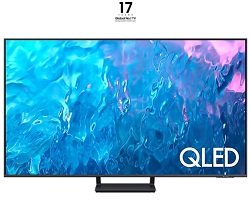
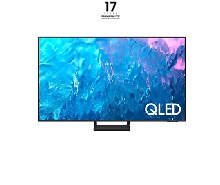
changed to col-md-3 for categories pages,fixed media images

diff --git a/WebShop/wwwroot/css/site.css b/WebShop/wwwroot/css/site.css
@@ -432,7 +432,14 @@ li button {
 
     .campaign {    
       visibility: hidden;  
-    } 
+    }
+
+    .card h5 {
+        font-size: 15px;
+    }
+    .card_img {
+        max-width: 200px !important;
+    }
 
     /*.prev {
         left: 0px;
@@ -457,87 +464,119 @@ li button {
 
     .campaign {
         visibility:hidden;
-    }   
+    }
+    .card h5 {
+        font-size: 15px;
+    }
+    .card_img {
+        max-width: 200px !important;
+    }
 }
 
-@media only screen and (min-width: 1000px) {
-    .header_slogan {
-        margin-left: -60px;
+@media only screen and (min-width: 995px) {
+    .card h5{
+        font-size:15px;
     }
-
-    .mycats {
-        margin-bottom: 30px;
-    }
-    #products {
-        min-height: 1600px;
-    }
-    .campaign {
-        visibility: visible;
-        font-size: 14px;
-    } 
 }
 
-@media only screen and (min-width: 1100px) {
-    .header_slogan {
-        margin-left: -65px;
+    @media only screen and (min-width: 1000px) {
+        .header_slogan {
+            margin-left: -60px;
+        }
+
+        .mycats {
+            margin-bottom: 30px;
+        }
+
+        #products {
+            min-height: 1600px;
+        }
+
+        .campaign {
+            visibility: visible;
+            font-size: 14px;
+        }
+        .card h5 {
+            font-size: 18px;
+        }
+        .card_img {
+            max-width: 200px !important;
+        }
     }
 
-    .mycats {
-        margin-bottom: 30px;
-    }
-    #products {
-        min-height: 1600px;
-    }
-    .campaign {
-        visibility: visible;
-        font-size: 14px;
-    } 
-}
+    @media only screen and (min-width: 1100px) {
+        .header_slogan {
+            margin-left: -65px;
+        }
 
-@media only screen and (min-width: 1200px) {
-    #home_index {
-        min-height: 850px;
-    }
+        .mycats {
+            margin-bottom: 30px;
+        }
 
-    .header_slogan {
-        margin-left: -70px;
-    }
+        #products {
+            min-height: 1600px;
+        }
 
-    .mycats {
-        margin-bottom: 0;
+        .campaign {
+            visibility: visible;
+            font-size: 14px;
+        }
+        .card_img {
+            max-width: 200px !important;
+        }
     }
 
-    /*.slideshow-container {       
+    @media only screen and (min-width: 1200px) {
+        #home_index {
+            min-height: 850px;
+        }
+
+        .header_slogan {
+            margin-left: -70px;
+        }
+
+        .mycats {
+            margin-bottom: 0;
+        }
+
+        /*.slideshow-container {       
         padding-top: 50px;
     }*/
-    #products {
-        min-height: 1600px;
+        #products {
+            min-height: 1600px;
+        }
+
+        .campaign {
+            visibility: visible;
+            font-size: 14px;
+        }
+        .card_img {
+            max-width: 200px !important;
+        }
     }
 
-    .campaign {
-        visibility: visible;
-        font-size: 14px;
-    } 
+    @media only screen and (min-width: 1400px) {
+        .header_slogan {
+            margin-left: -75px;
+        }
 
-}
+        .prev {
+            margin-left: 0px;
+        }
 
-@media only screen and (min-width: 1400px) {
-    .header_slogan {
-        margin-left: -75px;
-    }
+        .next {
+            margin-right: 0px;
+        }
 
-    .prev {
-        margin-left: 0px;
-    }
+        #products {
+            min-height: 1600px;
+        }
 
-    .next {
-        margin-right: 0px;
+        .campaign {
+            visibility: visible;
+            font-size: 14px;
+        }
+        .card_img {
+            max-width: 250px !important;
+        }
     }
-    #products {
-        min-height: 1600px;
-    }
-    .campaign {
-        visibility: visible;
-        font-size: 14px;
-    } 
-}
